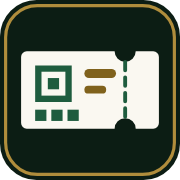
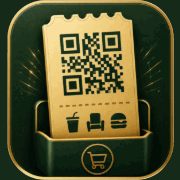
Gezeichnetes Symbol des Vereins
Das Symbol auf dem Schreibtisch und dem Home-Bildschirm ist jetzt die
gerenderte Zeichnung des Vereins: die goldene Karte mit dem QR-Code in
der grünen Wanne.

Die Vorlage lag auf schwarzem Grund und war unten um ein paar Zeilen
beschnitten — der goldene Rahmen lief dort aus dem Bild. Freigestellt
wurde deshalb nicht über die Helligkeit (das hätte die dunklen Ecken der
Kachel mit weggefräst), sondern über die Form, ein abgerundetes Rechteck;
der fehlende untere Rahmen ist aus dem oberen gespiegelt, damit das
Material stimmt. Die Größen sind auf eine Farbtafel eingedampft, das
spart gegenüber der Wahrfarbe rund vier Fünftel.

Im Reiter des Browsers bleibt die flache Zeichnung. Dort sind es sechzehn
Punkte, und darauf fällt ein gerendertes Bild zu einem Fleck zusammen.

- symbol-quelle.png (1024) als Vorlage, daraus 512, 192, 180, 32 und die
  maskierbare Fassung mit Luft für Androids Zuschnitt
- icon-32.png als PNG-Rückfall für Browser ohne SVG im Reiter
- Fassung 2.4

diff --git a/index.html b/index.html
@@ -8,8 +8,13 @@
 <!-- Damit die Kasse sich als Programm einrichten lässt: eigenes Symbol,
      eigenes Fenster ohne Adresszeile. Aus einer heruntergeladenen Datei
      heraus laufen diese Verweise ins Leere — das schadet nichts, die Seite
-     arbeitet dann wie bisher. -->
+     arbeitet dann wie bisher.
+     Auf dem Schreibtisch und dem Home-Bildschirm steht das gezeichnete
+     Symbol des Vereins (die PNG-Größen). Im Reiter des Browsers, wo nur
+     sechzehn Punkte bleiben, steht die flache Fassung als SVG — dort trägt
+     die Zeichnung, das Bild nicht. -->
 <link rel="icon" href="favicon.svg" type="image/svg+xml">
+<link rel="icon" href="icon-32.png" sizes="32x32" type="image/png">
 <link rel="apple-touch-icon" href="apple-touch-icon.png">
 <link rel="manifest" href="manifest.webmanifest">
 <meta name="theme-color" content="#0C1D14">
@@ -804,7 +809,7 @@ td.n,th.n{text-align:right}
    nebeneinanderlegen zu können. Sie gehört bei jeder Änderung, die man
    merkt, weitergedreht — sonst behauptet ein alter Stand, er sei der
    neue. Was welche Fassung brachte, steht im README. */
-var VERSION = "2.3";
+var VERSION = "2.4";
 
 /* ================== SHA-256 und HMAC ==================
    WebCrypto steht nur auf https-Seiten zur Verfügung. Die Ticketkasse wird

diff --git a/README.md b/README.md
@@ -40,12 +40,25 @@ Zierde: es gibt dann nichts, worüber jemand versehentlich wegnavigiert.
 Wer nur eine Verknüpfung will, zieht das Symbol links in der Adresszeile auf
 den Schreibtisch.
 
-Das Zeichen liegt als `favicon.svg` bei, die abgeleiteten Größen entstehen
-daraus. Daneben liegt `favicon-b.svg`, ein zweiter Entwurf: statt der Karte
-das Suchmuster eines QR-Codes, das bis hinunter zu sechzehn Punkten trägt, wo
-der erste zum Fleck wird. Wer tauscht, benennt die Dateien um und erzeugt die
-PNG-Größen neu. Aus einer heruntergeladenen Datei heraus greifen Symbol und
-Einrichtung nicht — dafür braucht es die Adresse.
+### Das Symbol
+
+Auf dem Schreibtisch und dem Home-Bildschirm steht das gezeichnete Symbol des
+Vereins: die goldene Karte mit dem QR-Code in der grünen Wanne. Es liegt als
+`symbol-quelle.png` (1024 Punkte) bei; daraus entstehen `icon-512.png`,
+`icon-192.png`, `icon-32.png`, `apple-touch-icon.png` und
+`icon-maskable-512.png`. Das letzte hat rundum Luft, weil Android sich aus dem
+Symbol einen Kreis oder ein Kleeblatt schneidet, wie es dem Gerät gefällt.
+
+Im Reiter des Browsers ist es anders. Dort bleiben sechzehn Punkte, und ein
+gerendertes Bild wird auf sechzehn Punkten zu einem Fleck — die Karte, die
+Wanne, der Wagen, alles fällt zusammen. Dafür liegt `favicon.svg` bei, eine
+flache Zeichnung derselben Sache in denselben Farben: sie trägt bis ganz
+hinunter. Der Reiter nimmt sie, der Schreibtisch das Bild. Daneben liegt
+`favicon-b.svg`, ein zweiter flacher Entwurf mit dem Suchmuster eines
+QR-Codes statt der Karte.
+
+Aus einer heruntergeladenen Datei heraus greifen Symbol und Einrichtung
+nicht — dafür braucht es die Adresse.
 
 ## Am Eingang
 
@@ -354,7 +367,8 @@ nebeneinanderlegt, sieht daran, ob beide denselben Stand haben.
 
 | | |
 | --- | --- |
-| **2.3** | Druck auf Etiketten- und Thermodrucker |
+| **2.4** | gezeichnetes Symbol des Vereins auf Schreibtisch und Home-Bildschirm |
+| 2.3 | Druck auf Etiketten- und Thermodrucker |
 | 2.2 | eigenes Symbol, als Programm einrichtbar |
 | 2.1 | Höchstzahlen je Kategorie, eine Übersicht statt dreier |
 | 2.0 | Kassenabschluss zum Drucken, Einlass je Gerät ausgewiesen |
